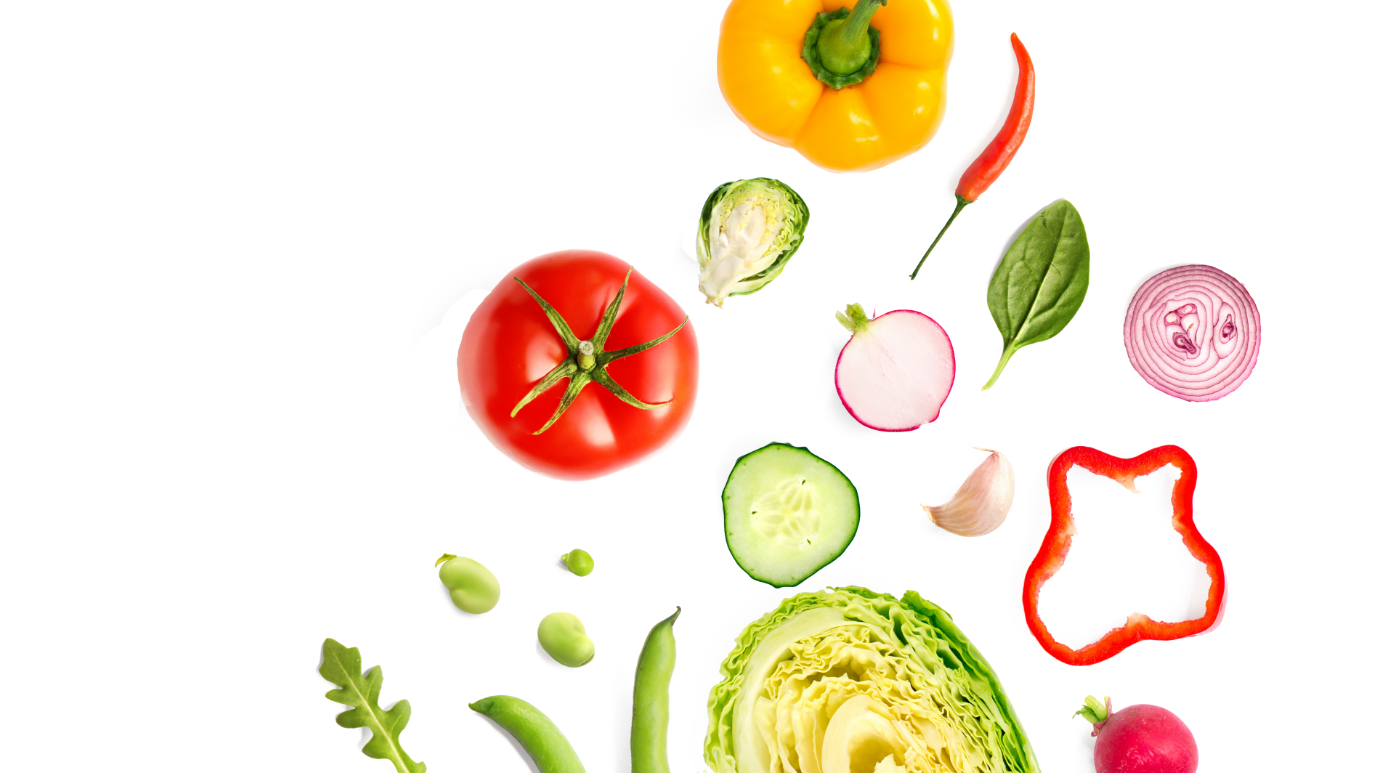
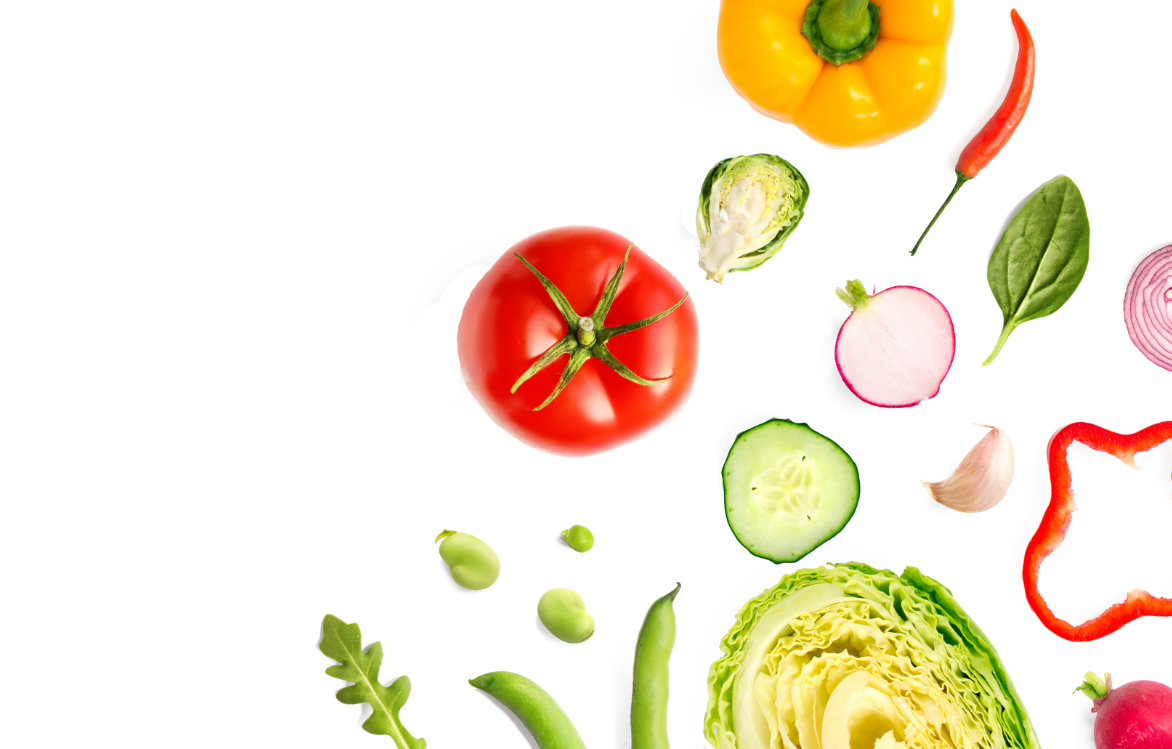
バックエンド作成

diff --git a/style.css b/style.css
@@ -4,7 +4,6 @@
 
 body {
     margin: 0;
-    max-width: 1920px;
 }
 
 img {
@@ -253,8 +252,8 @@ img[src="img/food1.png"]{
 /* 食材2の位置決め */
 img[src="img/food2.png"]{
     position: absolute;
-    top: 957px;
-    left: 780px;
+    top: 980px;
+    left: 745px;
 }
 
 /* 資格取得で描くステップアップ */
@@ -301,8 +300,7 @@ img[src="img/background-green.png"]{
 /* 食材3の位置決め */
 img[src="img/food3.png"]{
     position: absolute;
-    top: -360px;
-    right: -280px;
+    top: -150px;
 }
 
 .b-lesson-title h3{
@@ -750,7 +748,7 @@ img[src="img/logo-background.png"]{
 }
 
 /*  フォーム入力欄 */
-.name input, .phone input, .email input, .address input, .reserve-1 input, .reserve-2 input, .reserve-3 input, .memo input{
+.name input, .phone input, .email input, .address select, .reserve-1 input, .reserve-2 input, .reserve-3 input, .memo input{
     display: block;
     background-color: #F7F7F7;
     border: none;
@@ -760,7 +758,7 @@ img[src="img/logo-background.png"]{
 }
 
 /* ボックスの大きさ（予約希望日以外） */
-.name input, .phone input, .email input, .address input, .memo input{
+.name input, .phone input, .email input, .address select, .memo input{
     width: 646px;
     height: 80px;
 }

diff --git a/form.js b/form.js
@@ -1,0 +1,7 @@
+$(function(){
+    $('input').keypress(function(e){
+        if(e.which == 13) {
+            return false;
+        }
+    });
+});

diff --git a/index.php b/index.php
@@ -1,3 +1,27 @@
+<!-- バックエンド -->
+<?php 
+    // フォームのボタンが押されたら
+    if ($_SERVER["REQUEST_METHOD"] == "POST") {
+        // フォームから送信されたデータを各変数に格納
+        $name = $_POST["name"];
+        $phone = $_POST["phone"];
+        $email = $_POST["email"];
+        $sex = $_POST["sex"];
+        $age = $_POST["age"];
+        $address = $_POST["address"];
+        $reserve1 = $_POST["reserve1"];
+        $reserve2 = $_POST["reserve2"];
+        $reserve3 = $_POST["reserve3"];
+        $memo = $_POST["memo"];
+    }
+    if (isset($_POST["submit"])) {
+        // サンクスページに画面遷移させる
+        header("Location:http://localhost:8000/THA-lesson/thanks.php");
+        exit;
+    }
+?>
+
+<!-- フロントエンド -->
 <!DOCTYPE html>
 <html lang="ja">
 <head>
@@ -329,7 +353,7 @@
             <p><br></p>
             <p>内容に間違いがなければ次の確認画面で【送信】ボタンを押してください。</p>
             <div class="form-text">
-                <form action="confirm.php" method="post">
+                <form action="thanks.php" method="post">
                     <div class="name">
                         <label>ご氏名</label>
                         <input type="text" name="name" value="">
@@ -345,25 +369,73 @@
                     <div class="sex">
                         <label>性別</label>
                         <div class="select">
-                            <input type="radio" name="sex" value="" style="transform:scale(2.0)" checked>女性
-                            <input type="radio" name="sex" value="" style="transform:scale(2.0)">男性
-                            <input type="radio" name="sex" value="" style="transform:scale(2.0)">その他
+                            <input type="radio" name="sex" value="女性" style="transform:scale(2.0)" checked>女性
+                            <input type="radio" name="sex" value="男性" style="transform:scale(2.0)">男性
+                            <input type="radio" name="sex" value="その他" style="transform:scale(2.0)">その他
                         </div>
                     </div>
                     <div class="age">
                         <label>ご年齢</label>
                         <div class="select">
-                            <input type="radio" name="age" value="" style="transform:scale(2.0)" checked>10代
-                            <input type="radio" name="age" value="" style="transform:scale(2.0)">20代
-                            <input type="radio" name="age" value="" style="transform:scale(2.0)">30代
-                            <input type="radio" name="age" value="" style="transform:scale(2.0)">40代
-                            <input type="radio" name="age" value="" style="transform:scale(2.0)">50代
-                            <input type="radio" name="age" value="" style="transform:scale(2.0)">60代以上
+                            <input type="radio" name="age" value="10代" style="transform:scale(2.0)" checked>10代
+                            <input type="radio" name="age" value="20代" style="transform:scale(2.0)">20代
+                            <input type="radio" name="age" value="30代" style="transform:scale(2.0)">30代
+                            <input type="radio" name="age" value="40代" style="transform:scale(2.0)">40代
+                            <input type="radio" name="age" value="50代" style="transform:scale(2.0)">50代
+                            <input type="radio" name="age" value="60代以上" style="transform:scale(2.0)">60代以上
                         </div>
                     </div>
                     <div class="address">
                         <label>お住まいの都道府県</label>
-                        <input type="text" name="address" value="">
+                        <select name="address">
+                            <option value="北海道">北海道</option>
+                            <option value="青森県">青森県</option>
+                            <option value="岩手県">岩手県</option>
+                            <option value="宮城県">宮城県</option>
+                            <option value="秋田県">秋田県</option>
+                            <option value="山形県">山形県</option>
+                            <option value="福島県">福島県</option>
+                            <option value="茨城県">茨城県</option>
+                            <option value="栃木県">栃木県</option>
+                            <option value="群馬県">群馬県</option>
+                            <option value="埼玉県">埼玉県</option>
+                            <option value="千葉県">千葉県</option>
+                            <option value="東京都">東京都</option>
+                            <option value="神奈川県">神奈川県</option>
+                            <option value="新潟県">新潟県</option>
+                            <option value="富山県">富山県</option>
+                            <option value="石川県">石川県</option>
+                            <option value="福井県">福井県</option>
+                            <option value="山梨県">山梨県</option>
+                            <option value="長野県">長野県</option>
+                            <option value="岐阜県">岐阜県</option>
+                            <option value="静岡県">静岡県</option>
+                            <option value="愛知県">愛知県</option>
+                            <option value="三重県">三重県</option>
+                            <option value="滋賀県">滋賀県</option>
+                            <option value="京都府">京都府</option>
+                            <option value="大阪府">大阪府</option>
+                            <option value="兵庫県">兵庫県</option>
+                            <option value="奈良県">奈良県</option>
+                            <option value="和歌山県">和歌山県</option>
+                            <option value="鳥取県">鳥取県</option>
+                            <option value="島根県">島根県</option>
+                            <option value="岡山県">岡山県</option>
+                            <option value="広島県">広島県</option>
+                            <option value="山口県">山口県</option>
+                            <option value="徳島県">徳島県</option>
+                            <option value="香川県">香川県</option>
+                            <option value="愛媛県">愛媛県</option>
+                            <option value="高知県">高知県</option>
+                            <option value="福岡県">福岡県</option>
+                            <option value="佐賀県">佐賀県</option>
+                            <option value="長崎県">長崎県</option>
+                            <option value="熊本県">熊本県</option>
+                            <option value="大分県">大分県</option>
+                            <option value="宮崎県">宮崎県</option>
+                            <option value="鹿児島県">鹿児島県</option>
+                            <option value="沖縄県">沖縄県</option>
+                        </select>
                     </div>
                     <div class="reserve">
                         <div class="reserve-title">
@@ -372,15 +444,15 @@
                         <div class="reserve-list">
                             <div class="reserve-1">
                                 <label>第１希望</label>
-                                <input type="text" name="reserve1" value="">
+                                <input type="datetime-local" name="reserve1" value="">
                             </div>
                             <div class="reserve-2">
                                 <label>第２希望</label>
-                                <input type="text" name="reserve2" value="">
+                                <input type="datetime-local" name="reserve2" value="">
                             </div>
                             <div class="reserve-3">
                                 <label>第３希望</label>
-                                <input type="text" name="reserve3" value="">
+                                <input type="datetime-local" name="reserve3" value="">
                             </div>
                         </div>
                     </div>
@@ -408,5 +480,8 @@
     <div class="block-footer">
         <p>Copyright © トータルヘルスケア協会</p>
     </div>
+    <!-- js -->
+    <script src="https://code.jquery.com/jquery-3.6.0.min.js" integrity="sha256-HwWONEZrpuoh951cQD1ov2HUK5zA5DwJ1DNUXaM6FsY=" crossorigin="anonymous"></script>
+    <script src="form.js"></script>
 </body>
 </html>

diff --git a/thanks.php b/thanks.php
@@ -1,0 +1,72 @@
+<!DOCTYPE html>
+<html lang="ja">
+<head>
+    <meta charset="UTF-8">
+    <meta http-equiv="X-UA-Compatible" content="IE=edge">
+    <meta name="viewport" content="width=device-width, initial-scale=1.0">
+    <title></title>
+     <!-- Bootstrap読み込み -->
+    <link href="css/bootstrap.min.css" rel="stylesheet">
+    <!-- CSS読み込み -->
+    <link rel="stylesheet" href="">
+</head>
+<body>
+    <h1>Company Name</h1>
+    <h2>お問い合わせ</h2>
+    <div>
+    <?php
+        $dsn = 'mysql:host=localhost;dbname=tha_lesson;charaset=utf8';
+        $user = 'tha';
+        $pass = 'totalhealth9921';
+
+        $dbh = new PDO($dsn,$user,$pass);
+
+        try{
+            $dbh = new PDO($dsn,$user,$pass,[
+                PDO::ATTR_ERRMODE => PDO::ERRMODE_EXCEPTION,
+                ]);
+                echo '接続成功';
+            } catch(PDOException $e){
+                echo '接続失敗' . $e -> getMessage();
+                exit();
+            };
+
+            echo "<br>";
+
+        try{
+            //MySQLにデータを追加
+            //index.phpの値を取得
+            $name = $_POST['name'];
+            $phone = $_POST['phone'];
+            $email = $_POST['email'];
+            $sex = $_POST['sex'];
+            $age = $_POST['age'];
+            $address = $_POST['address'];
+            $reserve1 = $_POST['reserve1'];
+            $reserve2 = $_POST['reserve2'];
+            $reserve3 = $_POST['reserve3'];
+            $memo = $_POST['memo'];
+
+
+            $sql = "INSERT INTO application_list (name, phone, email, sex, age, address, reserve1, reserve2, reserve3, memo) VALUES (:name, :phone, :email, :sex, :age, :address, :reserve1, :reserve2, :reserve3, :memo)"; // INSERT文を変数に格納。:nameや:emailはプレースホルダという、値を入れるための単なる空箱
+            $stmt = $dbh->prepare($sql); //挿入する値は空のまま、SQL実行の準備をする
+            $params = array(':name' => $name, ':phone' => $phone, ':email' => $email, ':sex' => $sex, ':age' => $age, ':address' => $address, ':reserve1' => $reserve1, ':reserve2' => $reserve2, ':reserve3' => $reserve3, ':memo' => $memo); // 挿入する値を配列に格納する
+            $stmt->execute($params); //挿入する値が入った変数をexecuteにセットしてSQLを実行
+
+            echo '<h1>お問い合わせ 送信完了</h1>';
+            echo '<p>お問い合わせありがとうございました。</p>'; // 登録完了のメッセージ
+            echo '<p>内容を確認のうえ、回答させて頂きます。</p>';
+            echo '<p>しばらくお待ちください。</p>';
+
+        } catch (PDOException $e) {
+            echo '登録中にエラーが発生しました。もう一度やり直してください。' . $e -> getMessage();
+            exit();
+        };
+    ?>
+
+
+        <a href="index.php">
+            <button type="button">お問い合わせに戻る</button>
+        </a>
+    </div>
+</body>
